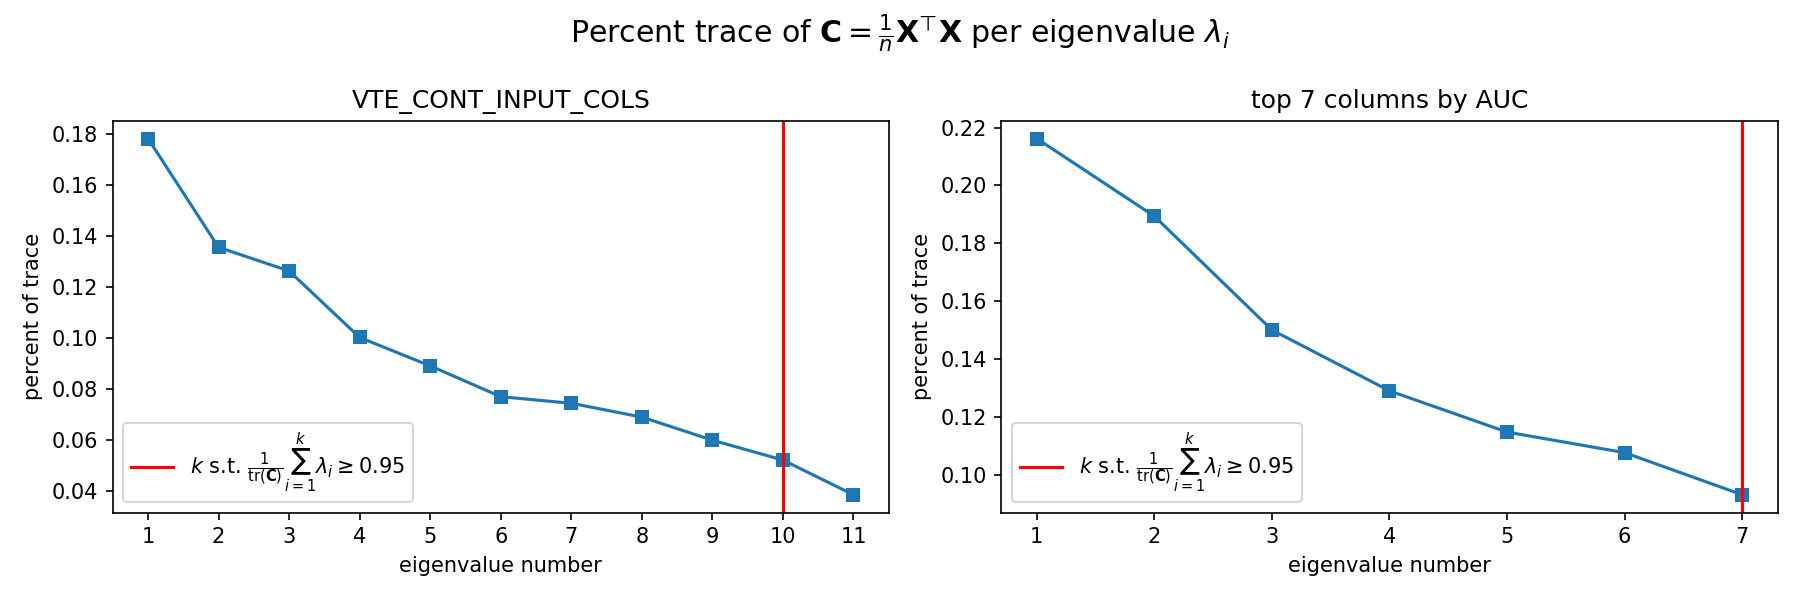
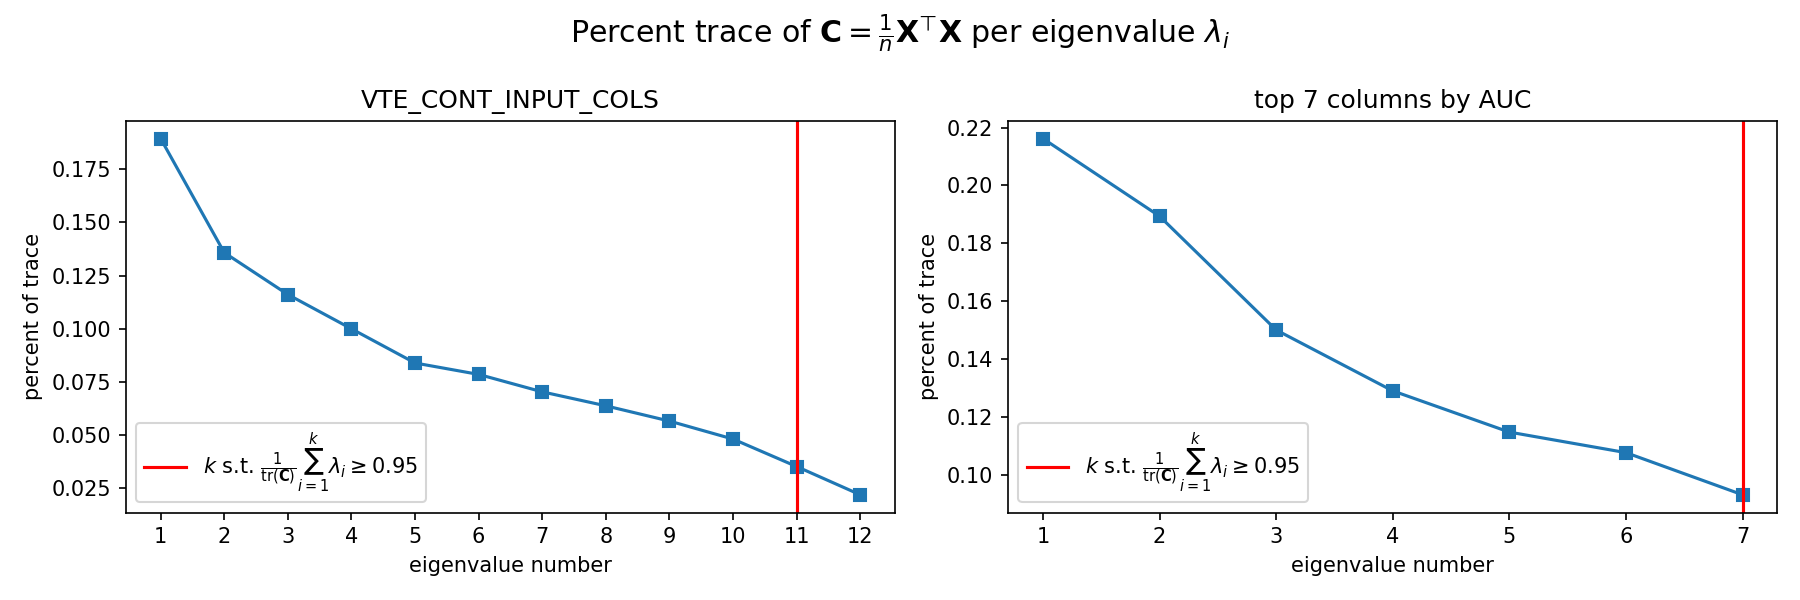
add isolation forest reuslts + code, update PCA plots with new attribute, update __init__.py globals for column names of VTE data

diff --git a/mtml/modeling/vte/isolation_forest.py b/mtml/modeling/vte/isolation_forest.py
@@ -1,0 +1,230 @@
+__doc__ = """Use isolation forest in attempt to detect minority class examples.
+
+Idea is to forget about the two-class classification problem and attempt to use
+an siolation forest to give predictions as to whether a point is in the inlier
+group (majority class) or in the outlier group (minority class).
+
+Inspired by `this KDNuggets post`__.
+
+.. __: https://www.kdnuggets.com/2016/08/learning-from-imbalanced-classes.html/2
+"""
+
+from functools import partial
+import pandas as pd
+from sklearn.decomposition import PCA
+from sklearn.ensemble import IsolationForest
+from sklearn.metrics import (
+    accuracy_score, precision_score, recall_score, roc_auc_score
+)
+from sklearn.model_selection import GridSearchCV
+from sklearn.preprocessing import StandardScaler
+
+# pylint: disable=relative-beyond-top-level
+from ... import VTE_CONT_INPUT_COLS, VTE_OUTPUT_COLS
+from .. import BASE_RESULTS_DIR
+from ...data.vte import vte_slp_factory
+from .data_transforms import replace_hdl_tot_chol_with_ratio
+from ...utils.persist import persist_csv, persist_json, persist_pickle
+
+
+class IsolationForestClassifier(IsolationForest):
+    """A binary classifier built from the scikit-learn isolation forest.
+
+    Init parameters are identical to those of the scikit-learn isolation forest.
+    See the `isolation forest documentation`__ for details.
+
+    .. __: https://scikit-learn.org/stable/modules/generated/sklearn.ensemble.
+       IsolationForest.html
+    """
+    # note removed deprecated behavior parameter
+    def __init__(self, *, n_estimators = 100, max_samples = "auto",
+                 contamination = "auto", max_features =1., bootstrap = False,
+                 n_jobs = None, random_state = None, 
+                 verbose = 0, warm_start = False):
+        # note we need to name all the keyword arguments explicitly since the
+        # sklearn get_params method inspects the __init__ signature to determine
+        # which arguments can be passed to the estimator
+        IsolationForest.__init__(
+            self, n_estimators = n_estimators, max_samples = max_samples,
+            contamination = contamination, max_features = max_features,
+            bootstrap = bootstrap, n_jobs = n_jobs, random_state = random_state,
+            verbose = verbose, warm_start = warm_start
+        )
+
+    def fit_predict(self, X, y = None, sample_weight = None):
+        """Perform fit and then return inlier/outlier predictions.
+
+        Minority class (outlier) points are assigned label 1 and majority class
+        (inlier) points are assigned label 0. Wraps original fit_predict method.
+
+        :rtype: :class:`numpy.ndarray`
+        """
+        # need functools.partial to freeze the self argument
+        return isoforest_label_adjust(
+            partial(IsolationForest.fit_predict, self)
+        )(X, y = y, sample_weight = sample_weight)
+
+    def predict(self, X):
+        """Return inlier/outlier predictions.
+
+        Minority class (outlier) points are assigned label 1 and majority class
+        (inlier) points are assigned label 0. Wraps original predict method.
+
+        :rtype: :class:`numpy.ndarray`
+        """
+        return isoforest_label_adjust(partial(IsolationForest.predict, self))(X)
+
+    def score(self, X, y, sample_weight = None):
+        """Returns accuracy of the classifier.
+
+        :rtype: float
+        """
+        # get predictions and send to accuracy_score
+        return accuracy_score(y, self.predict(X), sample_weight = sample_weight)
+        
+
+def isoforest_label_adjust(pred_func):
+    """Adjusts isolation forest predictions to be 1 for outliers, 0 for inliers.
+
+    By default the scikit-learn isolation forest returns -1 for outliers and 1
+    for inliers, so this method is used to wrap fit_predict or predict methods
+    and return 0 for inliers, 1 for outliers.
+    
+    GridSearchCV optimizes by means of precision score due to imbalance.
+
+    :param pred_func: Scikit-learn prediction function that returns a flat
+        :class:`numpy.ndarray` of labels ``-1`` and ``1``.
+    :type pred_func: function or method
+    :rtype: function
+    """
+    def adjust_pred_func(*args, **kwargs):
+        res = pred_func(*args, **kwargs)
+        res[res == -1] = 1
+        res[res == 1] = 0
+        return res
+
+    return adjust_pred_func
+
+
+@persist_csv(
+    target = BASE_RESULTS_DIR + "/vte_isoforest_scores.csv", enabled = True,
+    out_transform = lambda x: x[2]
+)
+@persist_json(
+    target = BASE_RESULTS_DIR + "/vte_isoforest_params.json", enabled = True,
+    out_transform = lambda x: x[1]
+)
+@persist_pickle(
+    target = BASE_RESULTS_DIR + "/vte_isoforest.pickle", enabled = True,
+    out_transform = lambda x: x[0]
+)
+def fit_isolation_forest(*, cv = 5, n_jobs = -1, verbose = False,
+                         report = False, random_seed = None):
+    """Fit isolation forest to solve imbalanced VTE classification problem.
+
+    Note that we have two variants: one which operates on the original
+    continuous features and one that operates on data projected onto the
+    eigenspace returned by PCA. Intuition would lead one to believe that the
+    projected data would give a better result, as the new basis vectors should
+    point in directions of maximal variance.
+
+    We avoid using a Pipeline object by performing the PCA before fitting.
+
+    :param cv: Number of CV splits to make when doing grid search.
+    :type cv: int, optional
+    :param n_jobs: Number of jobs to run in parallel when grid searching.
+        Defaults to ``-1`` to distribute load to all threads.
+    :type n_jobs: int, optional
+    :param verbose: Verbosity of the
+        :class:`~sklearn.model_selection.GridSearchCV` during searching/fitting.
+    :type verbose: bool, optional
+    :param report: If ``True``, print to stdout a report on model scores.
+    :type report: bool, optional
+    :param random_seed: A int seed to pass for multiple calls to this function
+        to be reproducible. Leave ``None`` for stochastic behavior.
+    :type random_state: int, optional
+    :rtype: tuple
+    """
+    # get data set of continuous features from vte_slp_factory
+    X_train, X_test, y_train, y_test = vte_slp_factory(
+        data_transform = replace_hdl_tot_chol_with_ratio,
+        inputs = VTE_CONT_INPUT_COLS, targets = VTE_OUTPUT_COLS, dropna = True,
+        random_state = random_seed
+    )
+    # use StandardScaler to standardize the X_train, X_test data
+    scaler = StandardScaler()
+    scaler.fit(X_train)
+    X_train, X_test = scaler.transform(X_train), scaler.transform(X_test)
+    # fit whitened PCA and use it to transform new training and test data
+    pca = PCA(whiten = True, random_state = random_seed)
+    pca.fit(X_train)
+    Z_train, Z_test = pca.transform(X_train), pca.transform(X_test)
+    # list of base estimator names
+    base_names = ("isoforest", "isoforest_pca")
+    ## hyperparameter grid for isolation forest ##
+    isoforest_grid = dict(
+        n_estimators = [50, 100, 200],
+        # twenty percent of the data (0.2) is around 2200 examples
+        max_samples = ["auto", 500, 0.2, 0.4],
+        # try to set contamination to be fraction of minority class
+        contamination = ["auto", y_train.mean()],
+        # try both sampling without and with replacement
+        bootstrap = [False, True],
+        random_state = [random_seed]
+    )
+    # two identical IsolationForest models
+    base_models = (IsolationForestClassifier(), IsolationForestClassifier())
+    # references to appropriate data sets each classifier is fit on
+    train_refs = (X_train, Z_train)
+    test_refs = (X_test, Z_test)
+    # holds saved binary model results
+    mdata = {}
+    # dictionary to hold saved model hyperparameters for plaintext persistence
+    mparams = {}
+    # DataFrame indexed by name of the model where columns are accuracy,
+    # precision, recall, and ROC AUC for each model
+    mscores = pd.DataFrame(
+        index = base_names, 
+        columns = ["accuracy", "precision", "recall", "roc_auc"]
+    )
+    # for PCA'ed and not PCA'ed model, train + record results
+    for base_name, base_model, train_ref, test_ref in zip(
+        base_names, base_models, train_refs, test_refs):
+        # instantiate and fit the GridSearchCV object (optimize for precision)
+        model = GridSearchCV(
+            base_model, isoforest_grid, scoring = "precision", cv = cv,
+            n_jobs = n_jobs, verbose = int(verbose)
+        )
+        # note that train_ref is either X_train or Z_train (y_train needed
+        # in order for our precision scoring to work)
+        model.fit(train_ref, y_train)
+        # save model to mdata using model name
+        mdata[base_name] = model
+        # get hyperparameters of the best estimated model
+        params = model.best_estimator_.get_params()
+        # save hyperparameters to mparams
+        mparams[base_name] = params
+        # compute test predictions using refit model on test_ref. note we have
+        # to wrap with isoforest_label_adjust to get the right labels
+        y_pred = isoforest_label_adjust(model.predict)(test_ref)
+        # get decision function values for computing ROC AUC. note that we have
+        # to negate them since isolation forest treats negative decision
+        # function values as being for the outliers
+        y_pred_scores = -model.decision_function(test_ref)
+        # save accuracy, precision, and recall to in mscores
+        mscores.loc[base_name, :] = (
+            accuracy_score(y_test, y_pred), precision_score(y_test, y_pred),
+            recall_score(y_test, y_pred), roc_auc_score(y_test, y_pred_scores)
+        )
+    # if report is True, print mscores to stdout for analysis
+    if report:
+        print("---- isolation forest quality metrics ", end = "")
+        print("-" * 42, end = "\n\n")
+        print(mscores)
+    # return results that can get picked up by decorators
+    return mdata, mparams, mscores
+
+
+if __name__ == "__main__":
+    # _ = fit_isolation_forest(report = True, random_seed = 7)
+    pass

diff --git a/mtml/__init__.py b/mtml/__init__.py
@@ -53,7 +53,7 @@ VTE_INPUT_COLS = (
     "inr_result", "ldl_result", "ptt_result", "d_dimer_result",
     "glucose_result", "crp_result", "fib_result", "trig_result",
     "thrombin_result", "plt_result", "gender_male0_female1", "age",
-    "anticoagulant_use_yes1_no0"
+    "tot_chol_over_hdl", "anticoagulant_use_yes1_no0"
 )
 """All input columns used for classification on the VTE data set.
 
@@ -61,14 +61,14 @@ Note that we do not include the bmi column, which has 6000+ missing values, and
 patient_identifier, which is useless to us. We also drop ``pt_result`` which is
 the prothrombin column since it relatively correlated with ``ptt_result``. We
 drop ``tot_cholesterol_result`` and ``hdl_result``, which are typically replaced
-with their ratio. See
+with their ratio, ``tot_chol_over_hdl``. See
 :func:`mtml.demos.vte_models._replace_hdl_tot_chol_with_ratio` for details.
 """
 
 VTE_CONT_INPUT_COLS = (
     "inr_result", "ldl_result", "ptt_result", "d_dimer_result",
     "glucose_result", "crp_result", "fib_result", "trig_result",
-    "thrombin_result", "plt_result", "age"
+    "thrombin_result", "plt_result", "age", "tot_chol_over_hdl"
 )
 """Continuous input columns used for classification on the VTE data set.
 

diff --git a/mtml/modeling/vte/decomposition.py b/mtml/modeling/vte/decomposition.py
@@ -32,7 +32,7 @@ from ...utils.persist import persist_csv, persist_json, persist_pickle
     target = BASE_RESULTS_DIR + "/vte_whitened_pcas.pickle", enabled = True,
     out_transform = lambda x: x["pcas"]
 )
-def whitened_pca(*, report = False, plotting_dir = BASE_RESULTS_DIR + "",
+def whitened_pca(*, report = False, plotting_dir = BASE_RESULTS_DIR,
                  random_seed = None, figsize = (12, 4), 
                  fig_fname = "vte_whitened_pcas_pct_trace.png",
                  dpi = 150, tight_layout = True, plot_kwargs = None):
@@ -172,7 +172,7 @@ def whitened_pca(*, report = False, plotting_dir = BASE_RESULTS_DIR + "",
     }
 
 
-def plot_pca_components_2d(*, plotting_dir = BASE_RESULTS_DIR + "",
+def plot_pca_components_2d(*, plotting_dir = BASE_RESULTS_DIR,
                            random_seed = None, figsize = (8, 6), 
                            fig_fname = "vte_whitened_pca_2d_eig.png", 
                            dpi = 150, cmap = "viridis",
